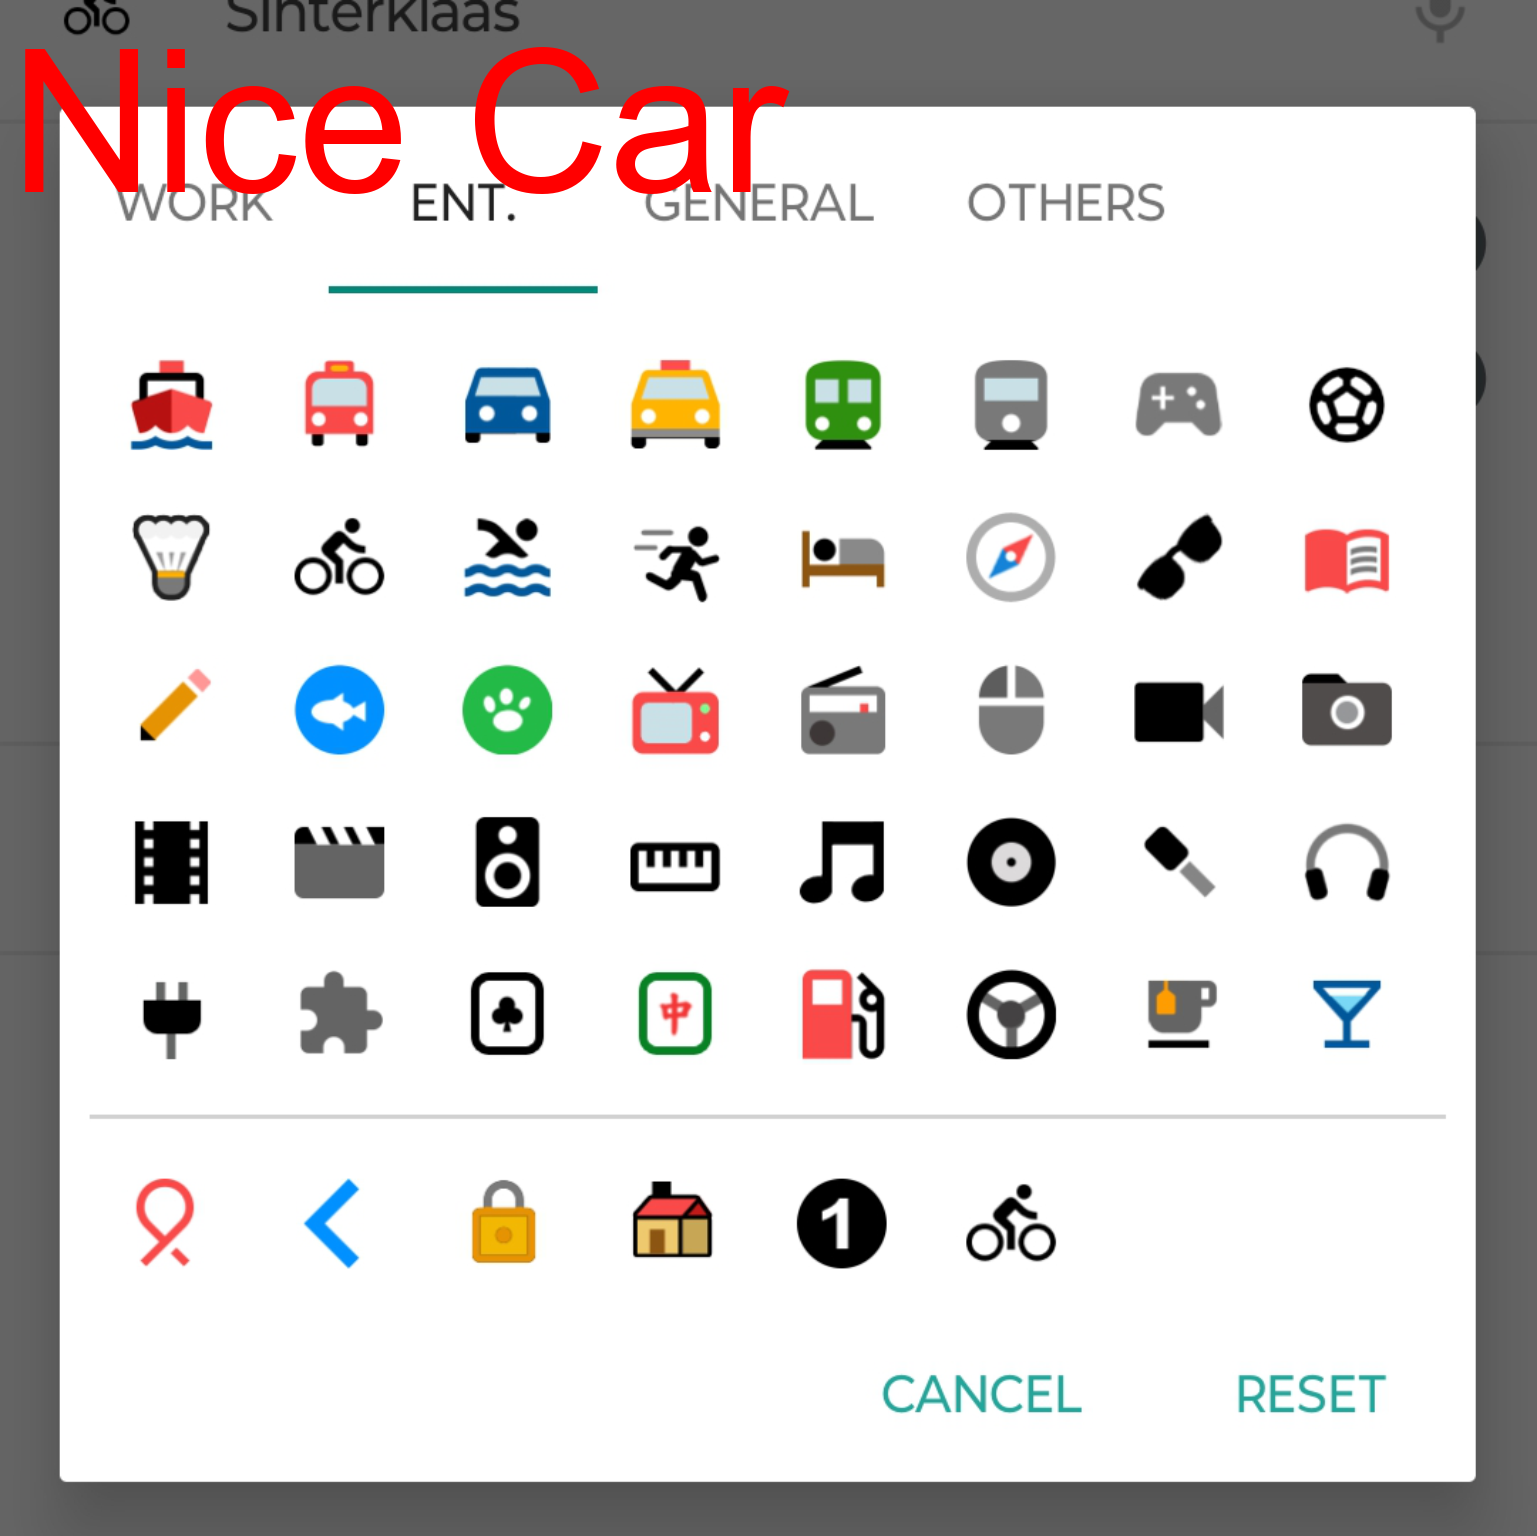
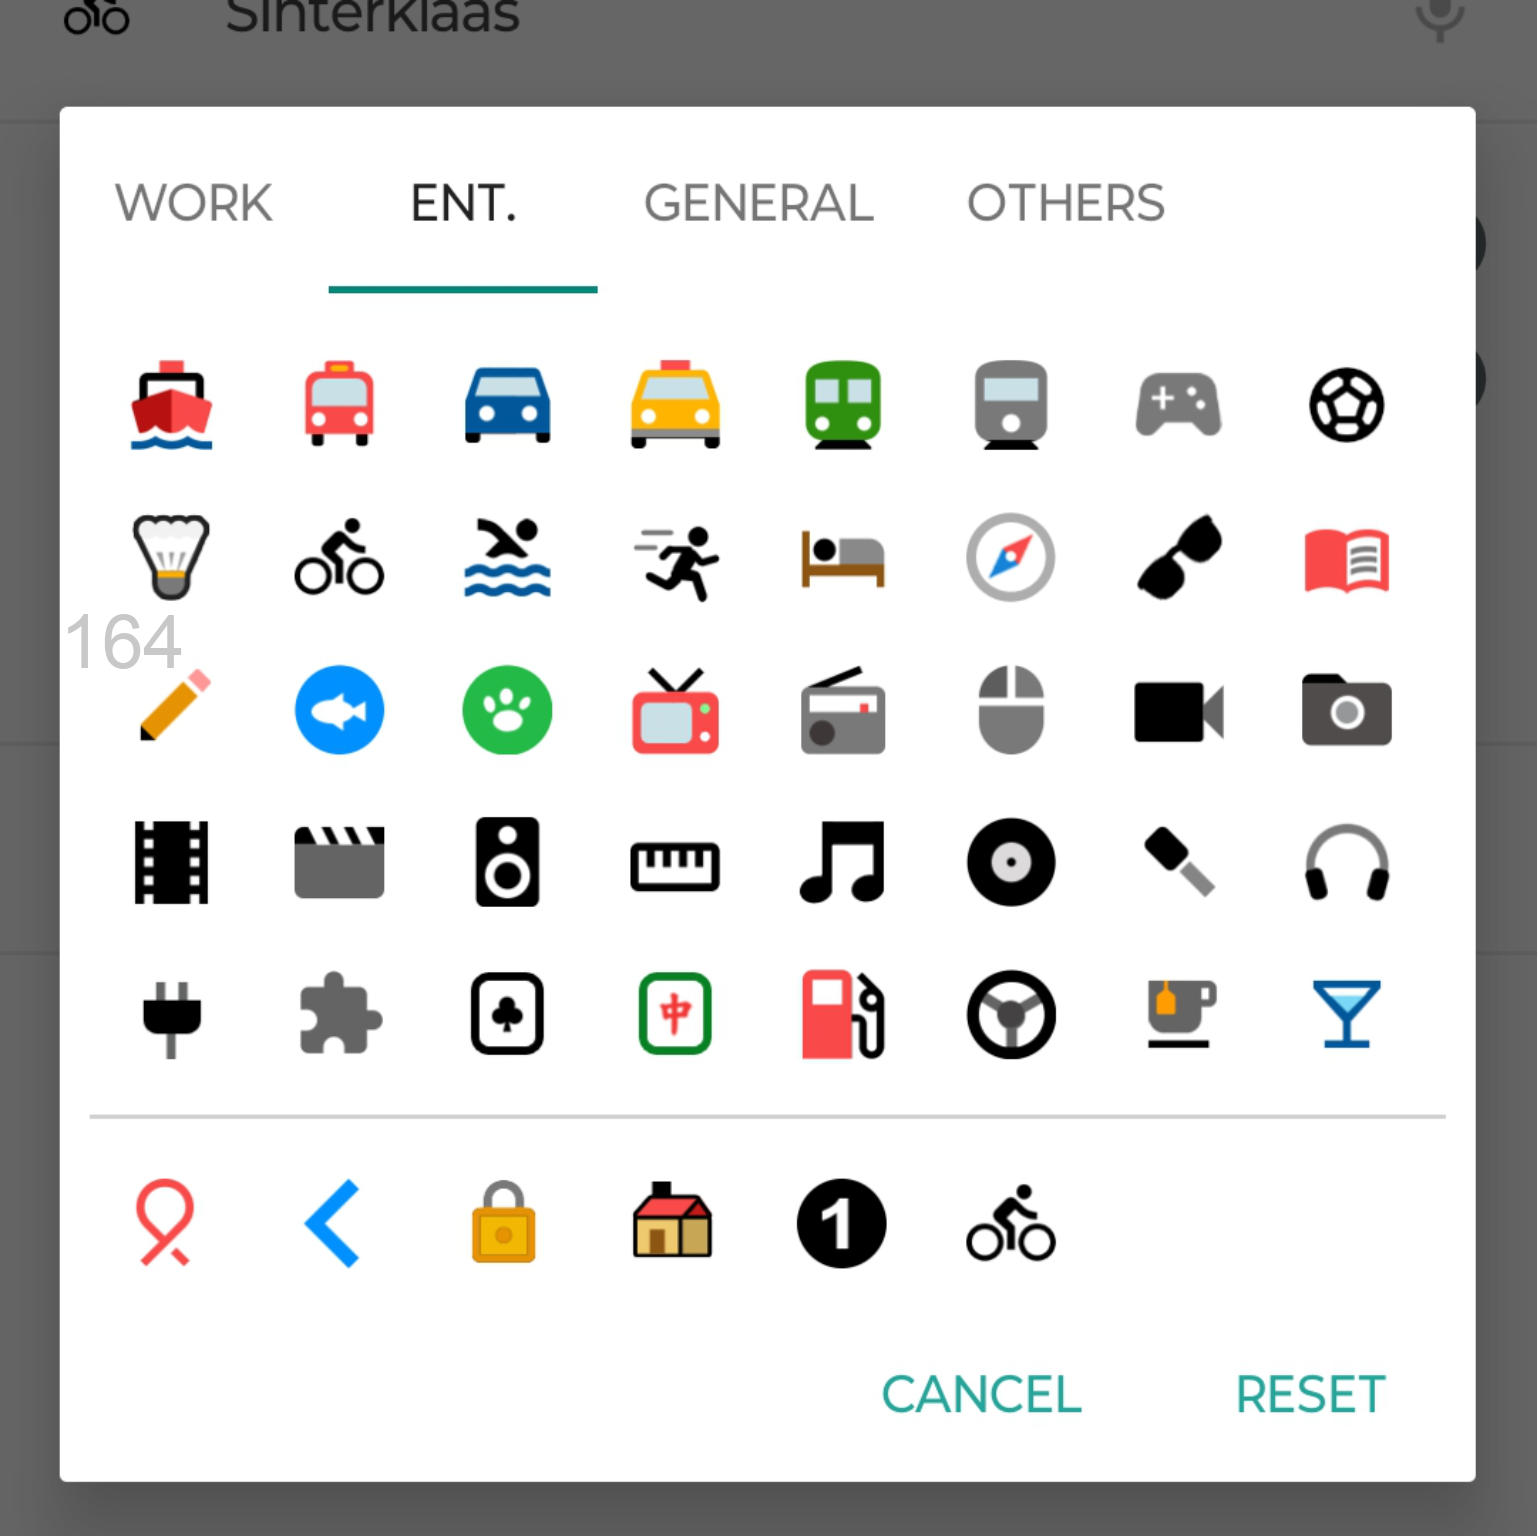
text change added

Changed region(s): [[0.0, 0.0312, 0.2811, 0.125], [0.3123, 0.0312, 0.4997, 0.125], [0.0312, 0.4062, 0.1249, 0.4375]]

diff --git a/texttoimage.py b/texttoimage.py
@@ -17,12 +17,12 @@ img = Image.open('Icons/Ent1.png')
 I1 = ImageDraw.Draw(img)
 
 if sys.platform[0] == 'l': 
-    myFont = ImageFont.truetype('C:/Fonts/Arial.ttf', 200)
+    myFont = ImageFont.truetype('C:/Fonts/Arial.ttf', 75)
 if sys.platform[0] == 'w':
-    myFont = ImageFont.truetype('C:/Users/janbo/Fonts/Arial.ttf', 200)
+    myFont = ImageFont.truetype('C:/Users/janbo/Fonts/Arial.ttf', 75)
  
 # Add Text to an image
-I1.text((10, 10), "Nice Car", font=myFont, fill =(255, 0, 0))
+I1.text((60, 600), "164", font=myFont, fill = (200, 200, 200))
  
 # Save the edited image
 img.save("Ent1s.png")
